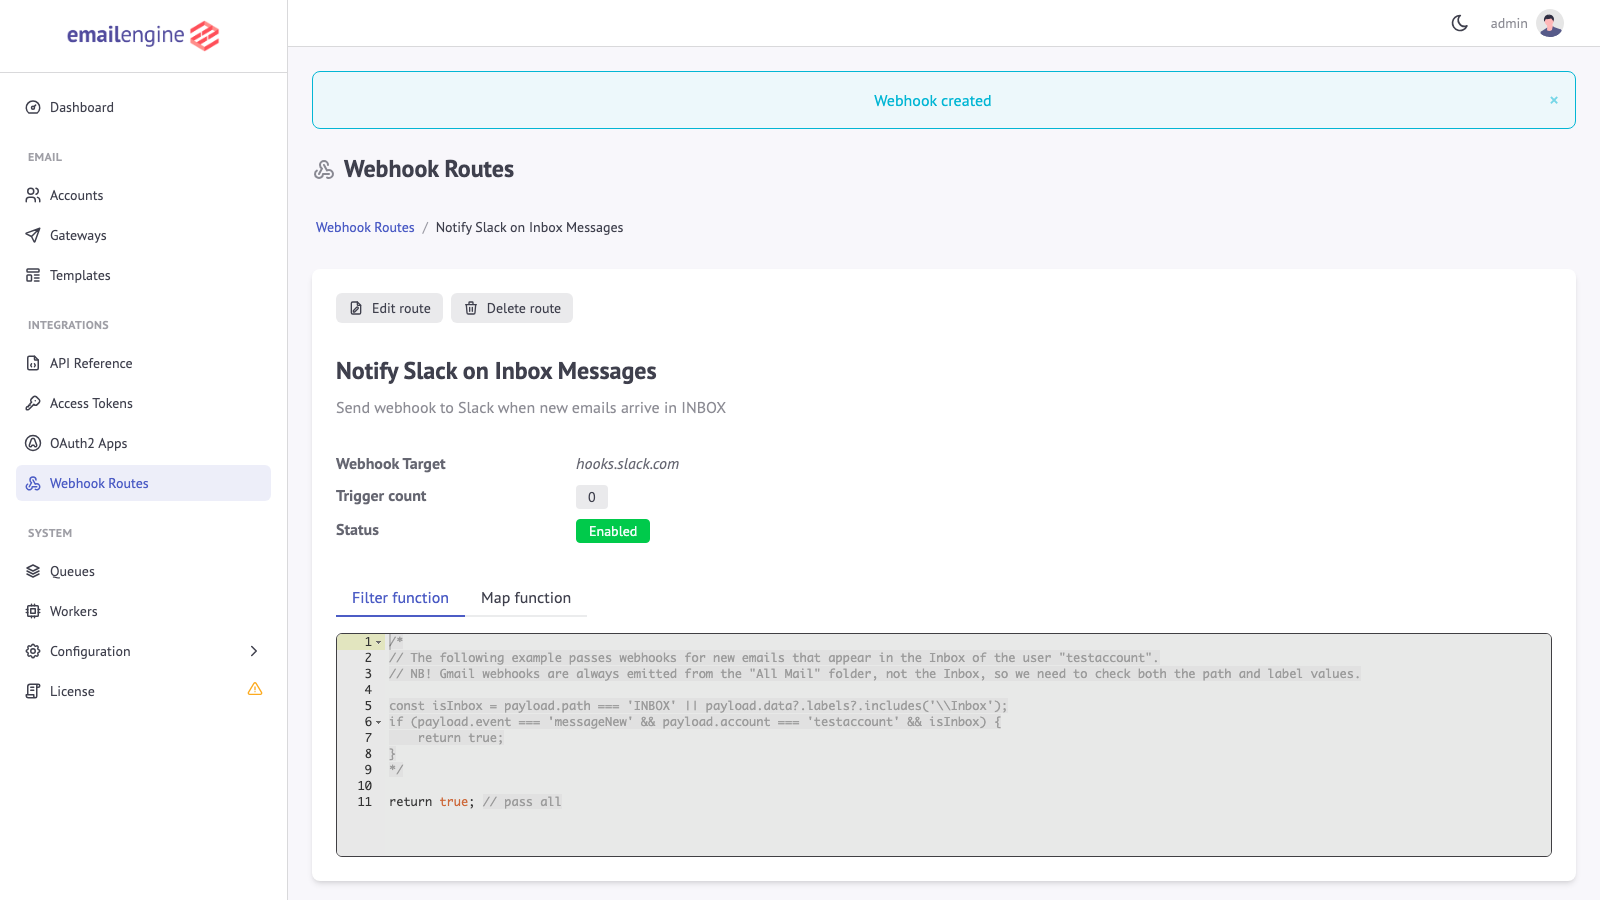
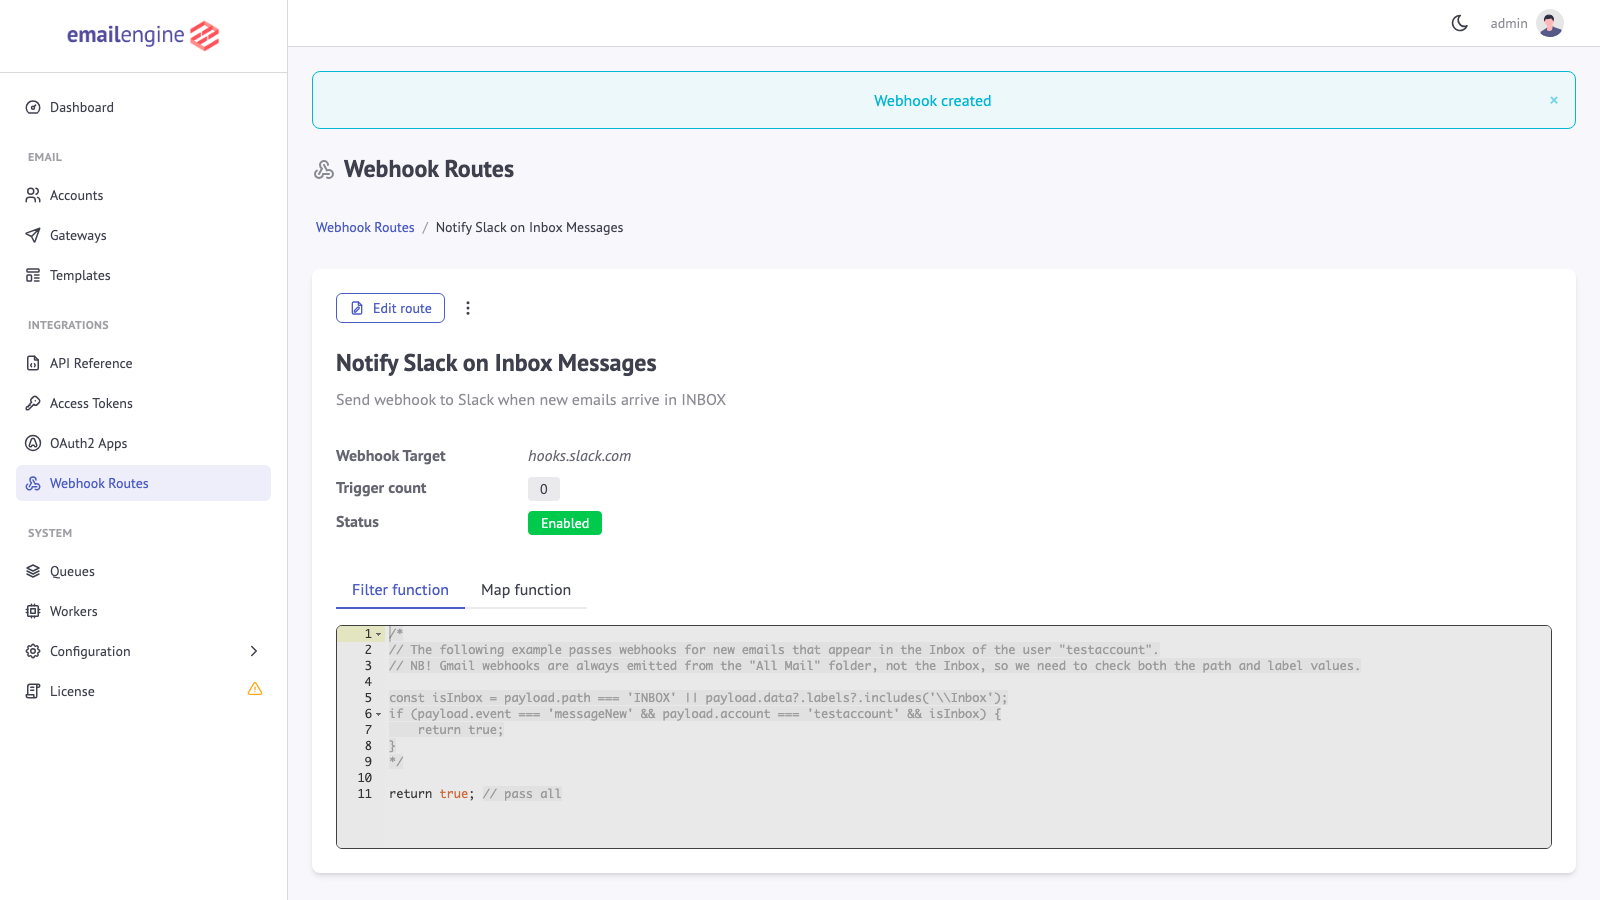
Regenerate admin UI screenshots for the redesigned list and detail views
Re-capture the screenshots against the reworked admin UI: list views now
carry a page-header subtitle, copyable ids and a row-actions kebab, and
detail views use the reorganized action toolbar. Config forms, Bull Board
and the license pages were unaffected and are unchanged.

Also fix capture-webhook-routing.js: its cleanup clicked #delete-btn
directly, but Delete route moved into the detail-view row-actions kebab,
so the menu has to be opened first.

diff --git a/scripts/capture-webhook-routing.js b/scripts/capture-webhook-routing.js
@@ -118,9 +118,12 @@ async function captureWebhookRoutingScreenshots() {
         await page.goto(`${EE_URL}/admin/config/webhooks`, { waitUntil: 'load' });
         await shot(page, 'webhook-config-page.png');
 
-        // clean up the demo route
+        // clean up the demo route. "Delete route" lives in the detail-view
+        // row-actions kebab, so the menu has to be opened before the item is
+        // clickable
         await page.goto(`${EE_URL}/admin/webhooks/webhook/${routeId}`, { waitUntil: 'load' });
-        await page.click('#delete-btn');
+        await page.click('button[aria-label="More webhook route actions"]');
+        await page.locator('#delete-btn').click();
         await page.waitForTimeout(500);
         await page.click('#deleteModal button[type="submit"]');
         await page.waitForTimeout(1000);
